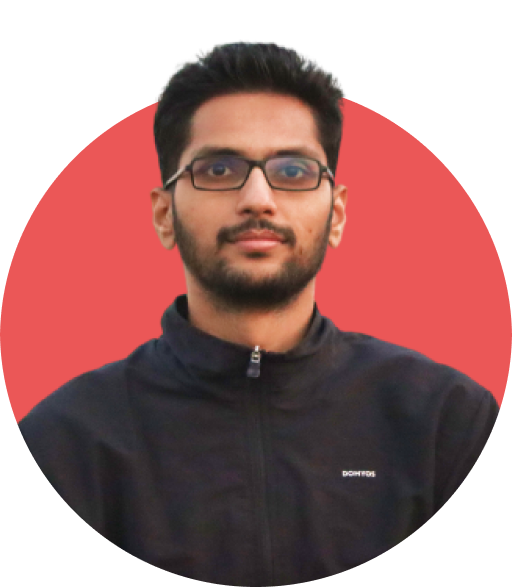
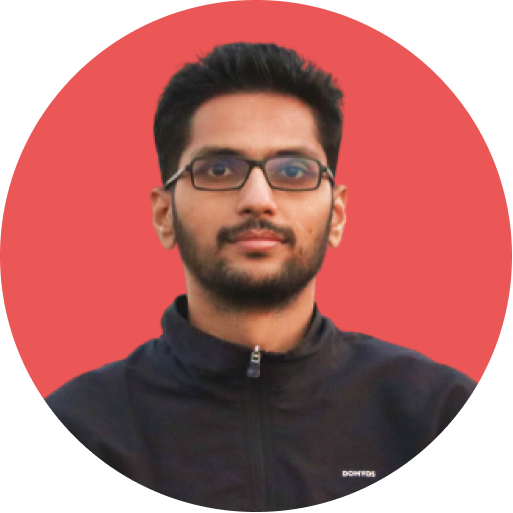
chore: add about me sections

diff --git a/src/components/molecules/AboutMe/SummarySection.tsx b/src/components/molecules/AboutMe/SummarySection.tsx
@@ -1,15 +1,15 @@
-import parse from "html-react-parser";
 import { SocialIcons } from "@/components/atoms/SocialIcons/SocialIcons";
 import { useProfileDataContext } from "@/contexts/ProfileDataContext";
-import { Container, Grid, Typography } from "@mui/material";
+import { Chip, colors, Container, Grid, Typography } from "@mui/material";
+import { Stack } from "@mui/system";
+import parse from "html-react-parser";
 import moment from "moment";
-import { useMemo } from "react";
-import { DummyImage } from "../RecentArticleCard/RecentArticleCard";
 import Image from "next/image";
+import { useMemo } from "react";
 
 export function SummarySection() {
   const {
-    profileData: { overview, experience },
+    profileData: { overview, experience, skills },
   } = useProfileDataContext();
 
   const totalExperience = useMemo((): string => {
@@ -28,34 +28,54 @@ export function SummarySection() {
     }
   }, [experience]);
 
+  const allSkills = [
+    ...skills.development.map((skill) => skill.skillName),
+    ...skills.design.map((skill) => skill.skillName),
+  ];
+
   return (
     <Container component="article">
       <Grid container spacing={2} alignItems="center" flexWrap="nowrap">
         <Grid item>
           <Image
             src="/assets/images/AboutMePic.png"
-            width={512 / 1.5}
-            height={587 / 1.5}
+            width={350}
+            height={350}
             alt="profile pic"
           />
         </Grid>
         <Grid item>
-          <Typography variant="h2" color="text.primary" sx={{ pt: 1 }}>
-            {overview.name}
-          </Typography>
-          <Typography
-            variant="body1"
-            fontSize={20}
-            color="text.primary"
-            sx={{ pt: 1 }}
-          >
-            {parse(
-              overview.summary.replace(
-                "{totalYearsOfExperience}",
-                totalExperience
-              )
-            )}
-          </Typography>
+          <Grid container spacing={1}>
+            <Grid item>
+              <Typography variant="h2" color="text.primary" sx={{ pt: 1 }}>
+                {overview.name}
+              </Typography>
+            </Grid>
+            <Grid item>
+              <Typography variant="body1" fontSize={20} color="text.primary">
+                {parse(
+                  overview.summary.replace(
+                    "{totalYearsOfExperience}",
+                    totalExperience
+                  )
+                )}
+              </Typography>
+            </Grid>
+            <Grid item>
+              <Grid container spacing={0.5} sx={{ pt: 0.5 }}>
+                {allSkills.map((skill) => (
+                  <Grid item key={skill}>
+                    <Chip
+                      label={skill}
+                      variant="filled"
+                      size="small"
+                      color="default"
+                    />
+                  </Grid>
+                ))}
+              </Grid>
+            </Grid>
+          </Grid>
           <SocialIcons />
         </Grid>
       </Grid>

diff --git a/src/components/molecules/AboutMe/Certifications.tsx b/src/components/molecules/AboutMe/Certifications.tsx
@@ -1,0 +1,83 @@
+import { useProfileDataContext } from "@/contexts/ProfileDataContext";
+import { CertificateDetails } from "@/types/profileDataTypes";
+import { Container, Grid, Stack, Typography, useTheme } from "@mui/material";
+import Link from "next/link";
+
+export const CertificationDetails = ({
+  certification,
+}: {
+  certification: CertificateDetails;
+}) => {
+  const theme = useTheme();
+
+  return (
+    <Grid container spacing={0.5}>
+      <Grid item xs={12}>
+        <Typography variant="h5" color="text.primary" sx={{ pt: 1 }}>
+          <Link href={certification.urlToCertificate} target="_blank">
+            {certification.name}
+          </Link>
+        </Typography>
+      </Grid>
+      <Grid item xs={12}>
+        <Stack direction="row" spacing={3} alignItems="center">
+          <Typography variant="body1" color="text.secondary">
+            {certification.summary}
+          </Typography>
+          <Typography variant="body1" color="text.secondary"></Typography>
+        </Stack>
+      </Grid>
+    </Grid>
+  );
+};
+
+export default function Certifications() {
+  const {
+    profileData: { certifications },
+  } = useProfileDataContext();
+  return (
+    <Container component="article">
+      <Stack>
+        <Typography variant="h3" color="primary" sx={{ pt: 1 }}>
+          Certifications
+        </Typography>
+        <Grid container spacing={1} sx={{ pt: 2 }}>
+          <Grid item xs={12}>
+            <Typography variant="h3" color="text.secondary">
+              Design
+            </Typography>
+          </Grid>
+          <Grid item xs={12}>
+            <Grid container spacing={1}>
+              {certifications.design.map((certification) => {
+                return (
+                  <Grid key={certification.name} item xs={6}>
+                    <CertificationDetails certification={certification} />
+                  </Grid>
+                );
+              })}
+            </Grid>
+          </Grid>
+        </Grid>
+        <Grid container spacing={1} sx={{ pt: 2 }}>
+          <Grid item xs={12}>
+            <Typography variant="h3" color="text.secondary">
+              Development
+            </Typography>
+          </Grid>
+          <Grid item xs={12}>
+            <Grid container spacing={1}>
+              {certifications.development.map((certification) => {
+                return (
+                  <Grid key={certification.name} item xs={6}>
+                    <CertificationDetails certification={certification} />
+                  </Grid>
+                );
+              })}
+            </Grid>
+          </Grid>
+        </Grid>
+      </Stack>
+    </Container>
+  );
+}

diff --git a/src/components/molecules/AboutMe/Education.tsx b/src/components/molecules/AboutMe/Education.tsx
@@ -1,0 +1,50 @@
+import { useProfileDataContext } from "@/contexts/ProfileDataContext";
+import { EducationDetails } from "@/types/profileDataTypes";
+import { Container, Grid, Stack, Typography, useTheme } from "@mui/material";
+
+export const EducationDetailsComponent = ({
+  education,
+}: {
+  education: EducationDetails;
+}) => {
+  const theme = useTheme();
+
+  return (
+    <Grid container spacing={0.5}>
+      <Grid item xs={12}>
+        <Typography variant="h5" color="text.primary" sx={{ pt: 1 }}>
+          {education.institute}
+        </Typography>
+      </Grid>
+      <Grid item xs={12}>
+        <Typography variant="body1" color="text.secondary">
+          {education.type}
+        </Typography>
+      </Grid>
+    </Grid>
+  );
+};
+
+export default function Education() {
+  const {
+    profileData: { education },
+  } = useProfileDataContext();
+  return (
+    <Container component="article">
+      <Stack>
+        <Typography variant="h3" color="primary" sx={{ pt: 1 }}>
+          Education
+        </Typography>
+        <Grid container spacing={1}>
+          {education.map((education) => {
+            return (
+              <Grid key={education.institute} item xs={6}>
+                <EducationDetailsComponent education={education} />
+              </Grid>
+            );
+          })}
+        </Grid>
+      </Stack>
+    </Container>
+  );
+}

diff --git a/src/components/molecules/AboutMe/Hobbies.tsx b/src/components/molecules/AboutMe/Hobbies.tsx
@@ -1,0 +1,41 @@
+import { useProfileDataContext } from "@/contexts/ProfileDataContext";
+import { Container, Grid, Stack, Typography } from "@mui/material";
+
+export default function Hobbies() {
+  const {
+    profileData: { hobbies },
+  } = useProfileDataContext();
+  return (
+    <Container component="article">
+      <Stack>
+        <Typography variant="h3" color="primary" sx={{ pt: 1 }}>
+          Hobbies & Interests
+        </Typography>
+        <Grid container spacing={1}>
+          {hobbies.map((hobby) => {
+            return (
+              <Grid key={hobby.name} item xs={6}>
+                <Grid container spacing={0.5}>
+                  <Grid item xs={12}>
+                    <Typography
+                      variant="h5"
+                      color="text.primary"
+                      sx={{ pt: 1 }}
+                    >
+                      {hobby.name}
+                    </Typography>
+                  </Grid>
+                  <Grid item xs={12}>
+                    <Typography variant="body1" color="text.primary">
+                      {hobby.summary}
+                    </Typography>
+                  </Grid>
+                </Grid>
+              </Grid>
+            );
+          })}
+        </Grid>
+      </Stack>
+    </Container>
+  );
+}

diff --git a/src/pages/about-me.tsx b/src/pages/about-me.tsx
@@ -1,3 +1,6 @@
+import Certifications from "@/components/molecules/AboutMe/Certifications";
+import Education from "@/components/molecules/AboutMe/Education";
+import Hobbies from "@/components/molecules/AboutMe/Hobbies";
 import { SummarySection } from "@/components/molecules/AboutMe/SummarySection";
 import WorkExperience from "@/components/molecules/AboutMe/WorkExperience";
 import AboutMePageHeader from "@/components/molecules/AboutMePageHeader/AboutMePageHeader";
@@ -26,6 +29,15 @@ export default function AboutMe({ profileData }: { profileData: ProfileData }) {
       </Box>
       <Box sx={{ py: 4 }}>
         <WorkExperience />
+      </Box>
+      <Box sx={{ background: theme.palette.grey[100], pt: 4, pb: 8 }}>
+        <Education />
+      </Box>
+      <Box sx={{ py: 4 }}>
+        <Certifications />
+      </Box>
+      <Box sx={{ background: theme.palette.grey[100], pt: 4, pb: 8 }}>
+        <Hobbies />
       </Box>
       <Footer />
     </Stack>

diff --git a/src/components/molecules/AboutMe/WorkExperience.tsx b/src/components/molecules/AboutMe/WorkExperience.tsx
@@ -1,12 +1,11 @@
 import { useProfileDataContext } from "@/contexts/ProfileDataContext";
 import { ExperienceDetails } from "@/types/profileDataTypes";
 import {
+  Box,
   Container,
+  Grid,
   Stack,
   Typography,
-  Grid,
-  MobileStepper,
-  Box,
   useTheme,
 } from "@mui/material";
 import moment from "moment";
@@ -88,7 +87,6 @@ export default function WorkExperience() {
   const {
     profileData: { experience },
   } = useProfileDataContext();
-  console.log(experience);
   return (
     <Container component="article">
       <Stack>

diff --git a/src/mui/theme.ts b/src/mui/theme.ts
@@ -24,7 +24,7 @@ const theme = extendTheme({
           main: PRIMARY_COLOR,
         },
         text: {
-          primary: "black",
+          primary: colors.grey[900],
           secondary: colors.grey[500],
         },
       },
@@ -35,7 +35,7 @@ const theme = extendTheme({
           main: PRIMARY_COLOR,
         },
         text: {
-          primary: "white",
+          primary: colors.grey[100],
           secondary: colors.grey[500],
         },
       },

diff --git a/src/pages/commonStyles.css b/src/pages/commonStyles.css
@@ -37,6 +37,7 @@ h4 {
 }
 
 a {
+  color: unset;
   text-decoration: none !important;
   cursor: pointer;
 }
